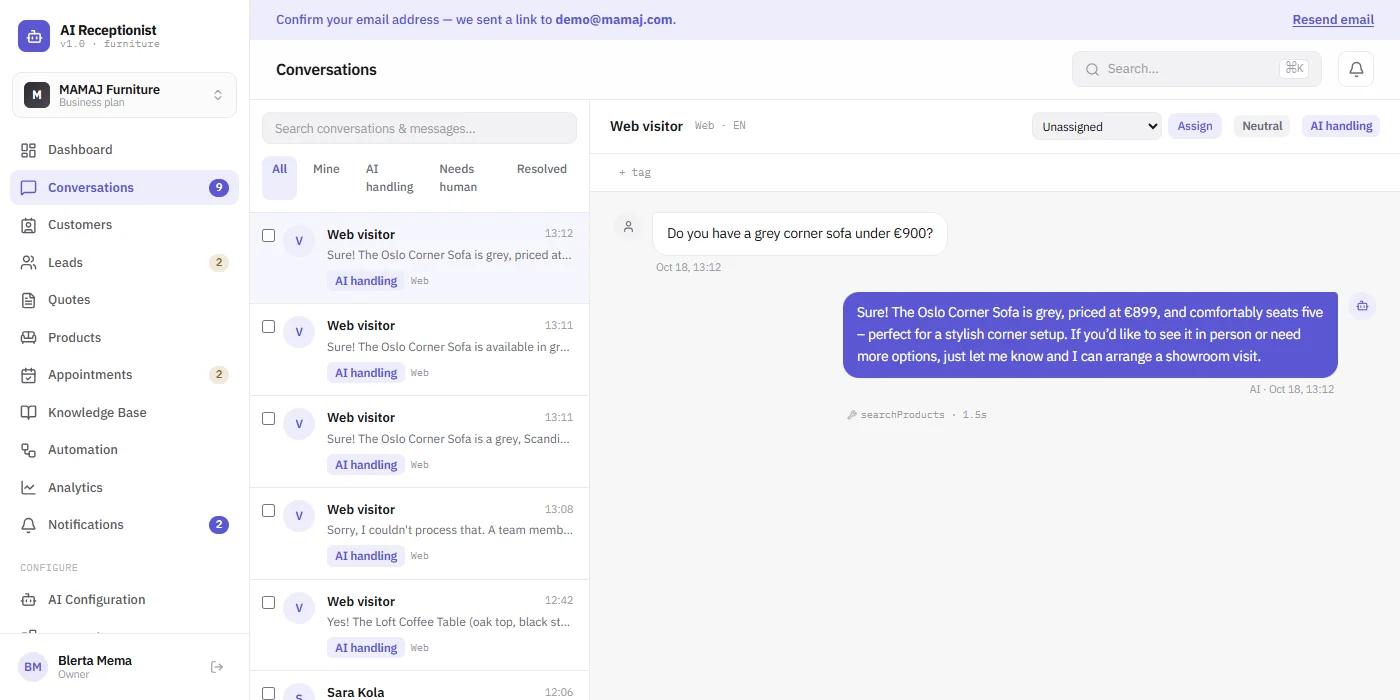
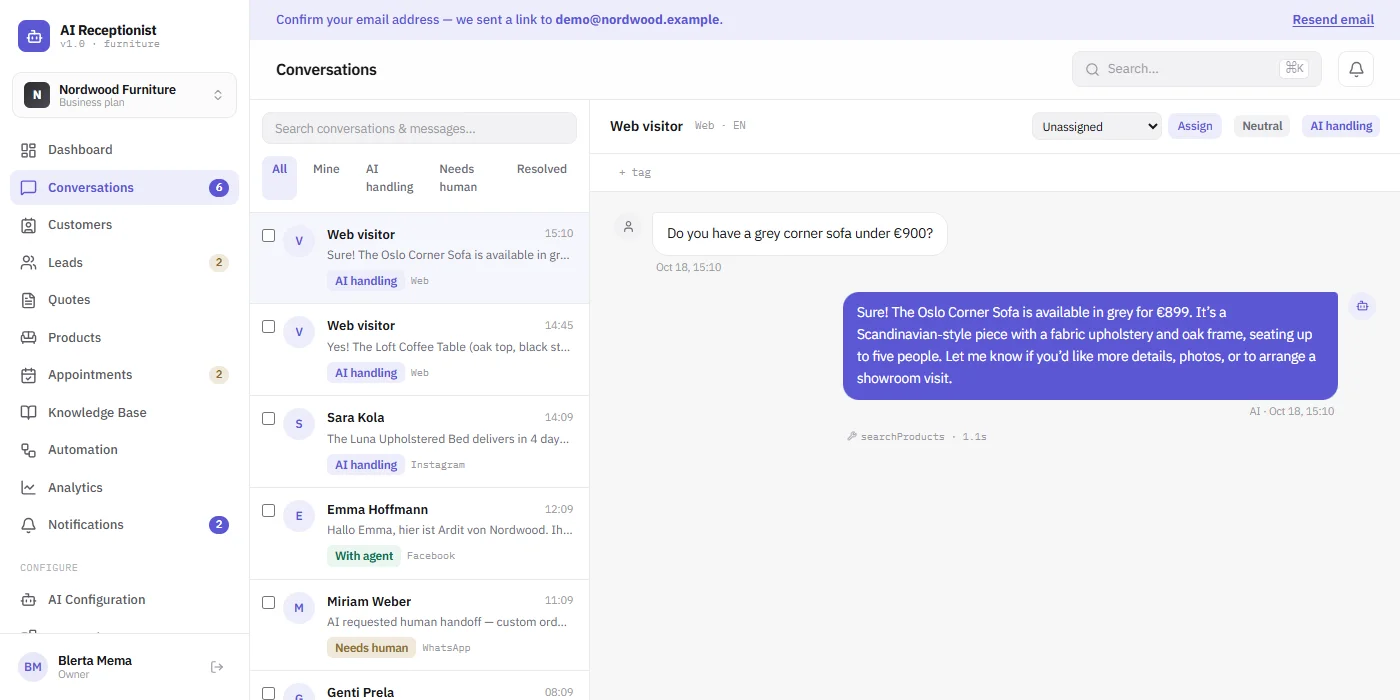
Present the AI Receptionist as an independent product
MAMAJ was only the model it was tested with, not a client. The card, chat
suggestion and assistant persona no longer tie it to MAMAJ, and the
screenshots are retaken with the app's new fictional demo store
(Nordwood Furniture). The MAMAJ website card is unchanged.

diff --git a/src/lib/persona.js b/src/lib/persona.js
@@ -16,7 +16,7 @@ ABOUT NASER:
 - GPA 9.9/10, graduating 2026. Recognized for academic excellence and offered early job opportunities.
 - Languages: Albanian (native), English (C1).
 - Email: naserdemiraj16@gmail.com. GitHub: github.com/NaserDemiraj.
-- Has delivered a paid client e-commerce project, working directly with the client, and built an AI Receptionist SaaS for MAMAJ Furniture. Builds most of his projects solo, end to end; the MAMAJ furniture website was built together with a friend.
+- Has delivered a paid client e-commerce project, working directly with the client, and built his own AI Receptionist SaaS product. Builds most of his projects solo, end to end; the MAMAJ furniture website was built together with a friend.
 - His portfolio has a downloadable CV/resume (the "resume" button) and clickable live-demo / GitHub links for several projects.
 - Soft skills: self-driven, owns projects solo, strong problem-solving and communication, detail-oriented, fast learner.
 
@@ -74,8 +74,8 @@ PROJECTS (built solo, end to end, unless a project says otherwise):
 - Open world with a forest, a village, a river, and mountains, all driven by realistic physics (for example, the river water flows). Naser built the entire game himself.
 - GitHub: github.com/NaserDemiraj/3D-UnityGame.
 
-9) AI Receptionist (multi-tenant SaaS, 2026) — MAMAJ Furniture is its first client (separate from the MAMAJ website)
-- Gives small businesses a 24/7 AI employee that can be embedded on a business's website (it is not embedded on the MAMAJ website): answers customers, recommends products from a live catalog, captures leads, books appointments, answers policy questions from a knowledge base, follows up automatically, and hands off to a human agent when needed.
+9) AI Receptionist (Naser's own multi-tenant SaaS product, 2026; independent and not built for any specific business)
+- Gives any small business a 24/7 AI employee that can be embedded on its website: answers customers, recommends products from a live catalog, captures leads, books appointments, answers policy questions from a knowledge base, follows up automatically, and hands off to a human agent when needed.
 - Detects the customer's language per message: English, Albanian, or German.
 - Each business also gets a generated public website with the assistant built in, plus an embeddable chat widget (one script tag).
 - Stack: Next.js (App Router) + TypeScript + Tailwind v4, PostgreSQL on Supabase with Prisma ORM, Auth.js v5, Groq behind a provider-agnostic AI adapter, pdf-lib for quote PDFs, Vitest tests.
@@ -101,7 +101,7 @@ PROJECTS (built solo, end to end, unless a project says otherwise):
 - Collections browsable by room (living room, bedroom, kitchen, dining), newest designs, an about page and a contact page.
 - Stack: React + Vite with React Router. Deployed on Vercel.
 - Live: https://mobileria-mamaj.vercel.app/
-- This is a separate project from the AI Receptionist, and the AI Receptionist is not embedded on this website.
+- It is unrelated to the AI Receptionist product.
 - When asked about it, say it was built with a friend; never say Naser built it alone.
 
 12) Shopware 6 QA automation exercise

diff --git a/web/src/data/projects.ts b/web/src/data/projects.ts
@@ -25,9 +25,9 @@ export type SideProject = {
 
 export const featured: FeaturedProject[] = [
   {
-    title: 'AI Receptionist — built for MAMAJ Furniture',
+    title: 'AI Receptionist — AI Employee SaaS',
     tag: 'multi-tenant SaaS · 2026',
-    summary: 'A 24/7 AI employee for small businesses, running on their website, with MAMAJ Furniture as the first client.',
+    summary: 'A multi-tenant SaaS that gives any small business a 24/7 AI employee on its website.',
     highlights: [
       'Recommends products from a live catalog, captures leads and books appointments',
       'Answers in English, Albanian or German, detected per message, and hands off to a human agent',
@@ -35,10 +35,10 @@ export const featured: FeaturedProject[] = [
     ],
     stack: ['Next.js', 'TypeScript', 'Supabase Postgres', 'Prisma', 'Groq tool use'],
     link: { href: 'https://github.com/NaserDemiraj/AiReceptionist', label: 'View code', kind: 'code' },
-    frameLabel: 'ai-receptionist · local demo',
+    frameLabel: 'ai-receptionist · demo store',
     image: {
       src: '/projects/ai-receptionist-widget.webp',
-      alt: 'The chat widget on the MAMAJ demo store: asked for a grey corner sofa under €900, Sara recommends the Oslo Corner Sofa with product cards',
+      alt: 'The chat widget on a demo furniture store: asked for a grey corner sofa under €900, Sara recommends the Oslo Corner Sofa with product cards',
       width: 1400,
       height: 700,
     },

diff --git a/web/src/components/ChatWindow.tsx b/web/src/components/ChatWindow.tsx
@@ -10,7 +10,7 @@ const GREETING: Message = {
 };
 
 const SUGGESTIONS = [
-  { label: 'The AI Receptionist?', prompt: 'Tell me about the AI Receptionist built for MAMAJ Furniture.' },
+  { label: 'The AI Receptionist?', prompt: 'Tell me about the AI Receptionist.' },
   { label: 'Coolest project?', prompt: 'Which project is the most impressive and why?' },
   { label: 'Your tech stack?', prompt: "What's your main tech stack?" },
 ];
